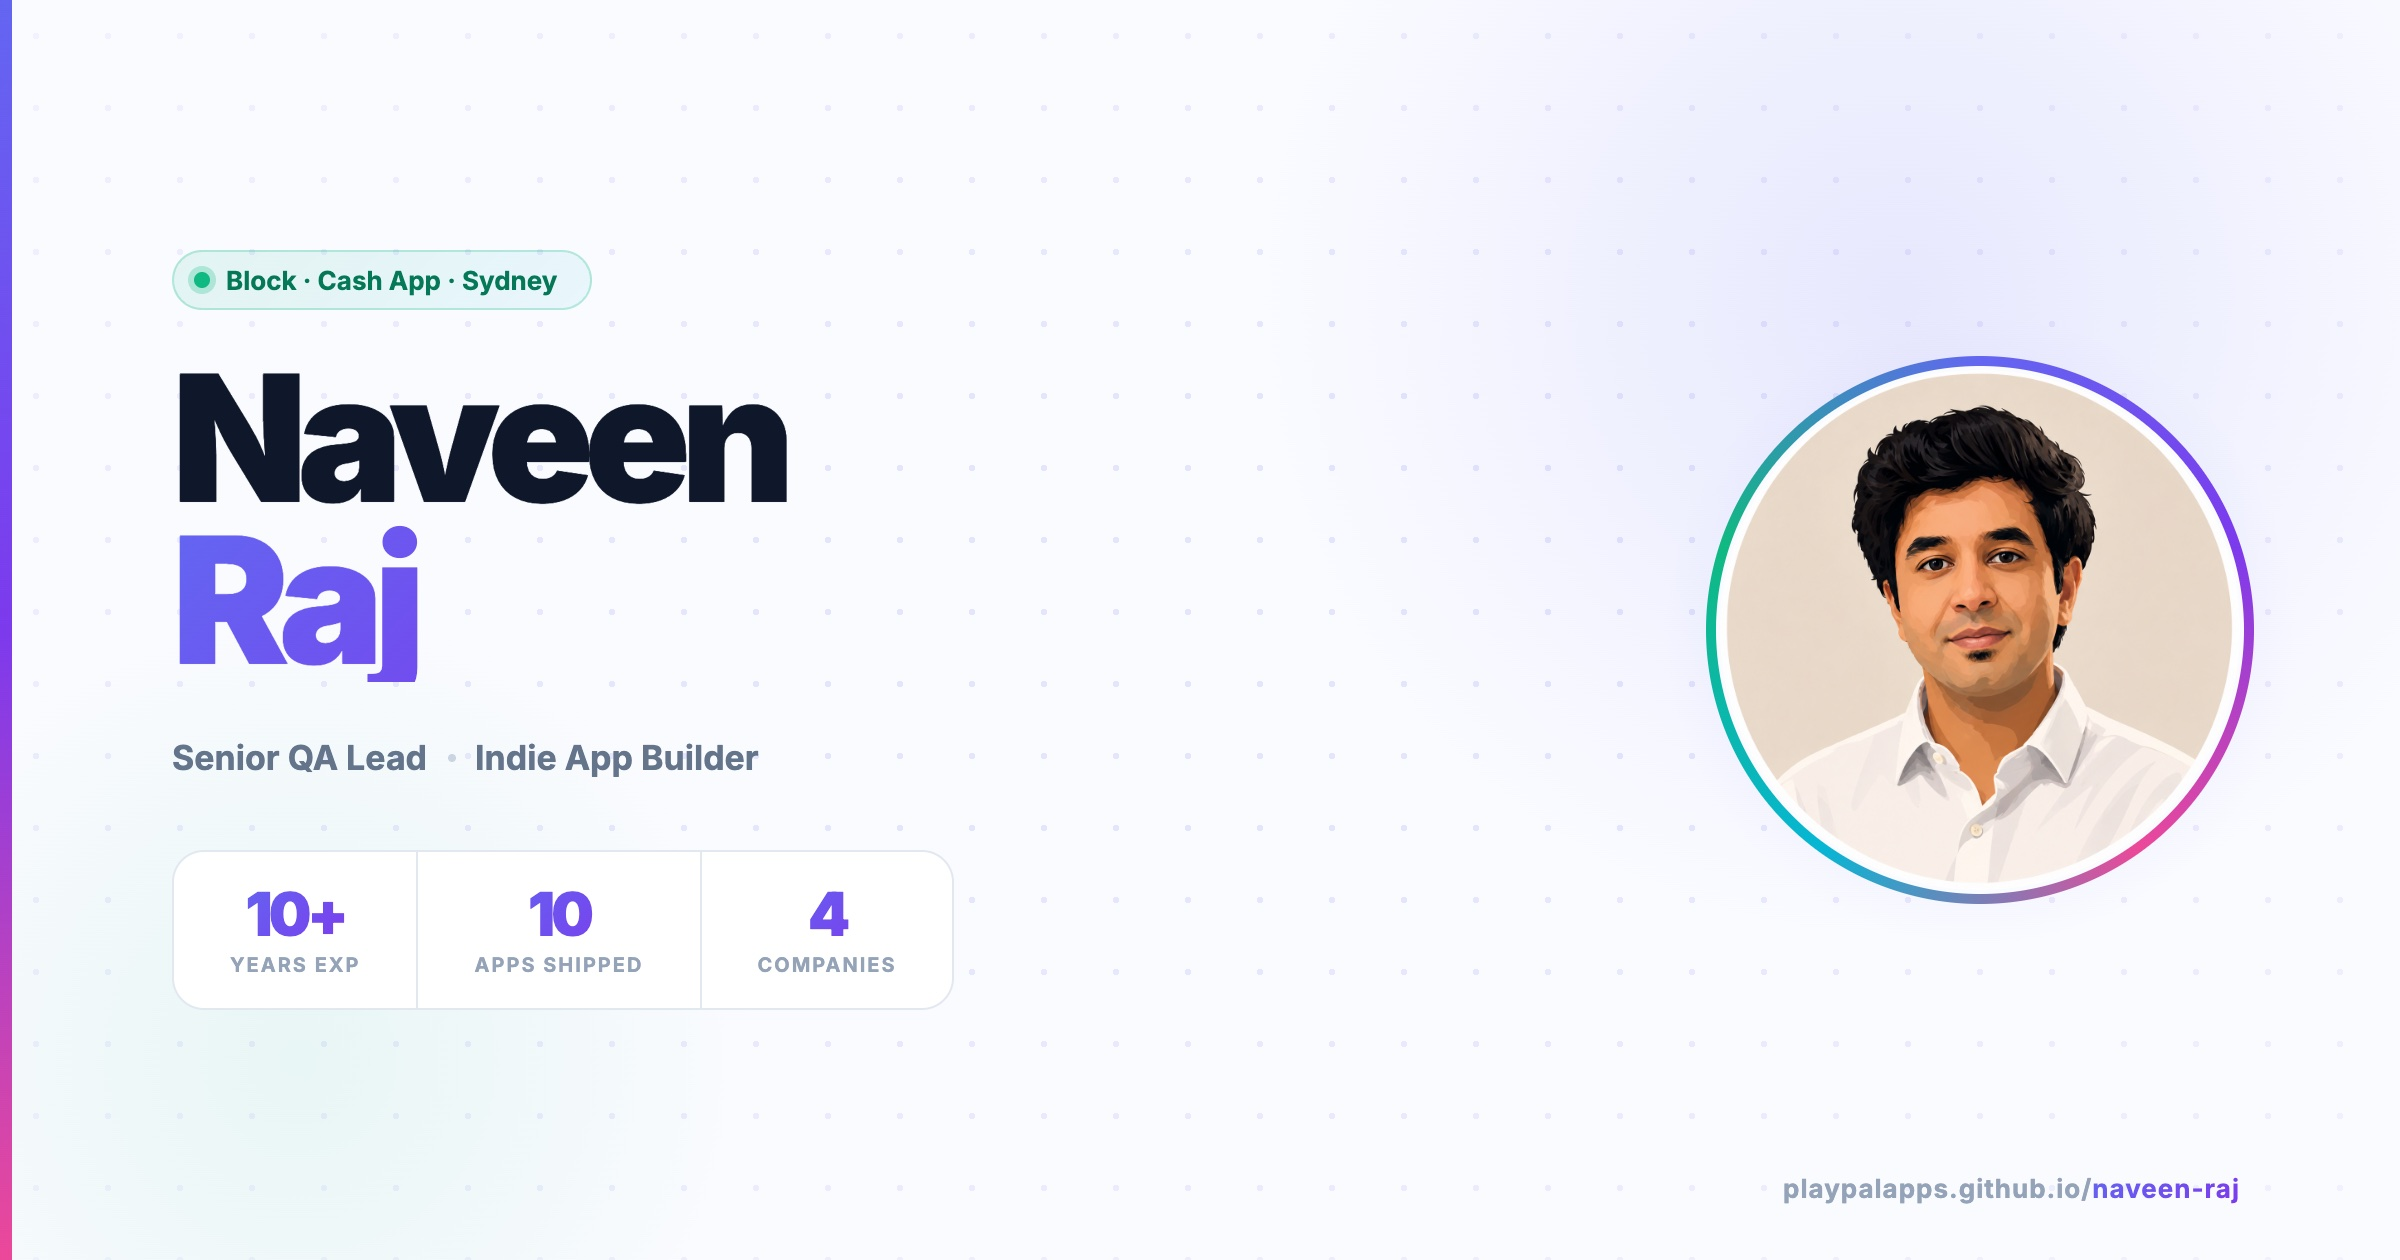
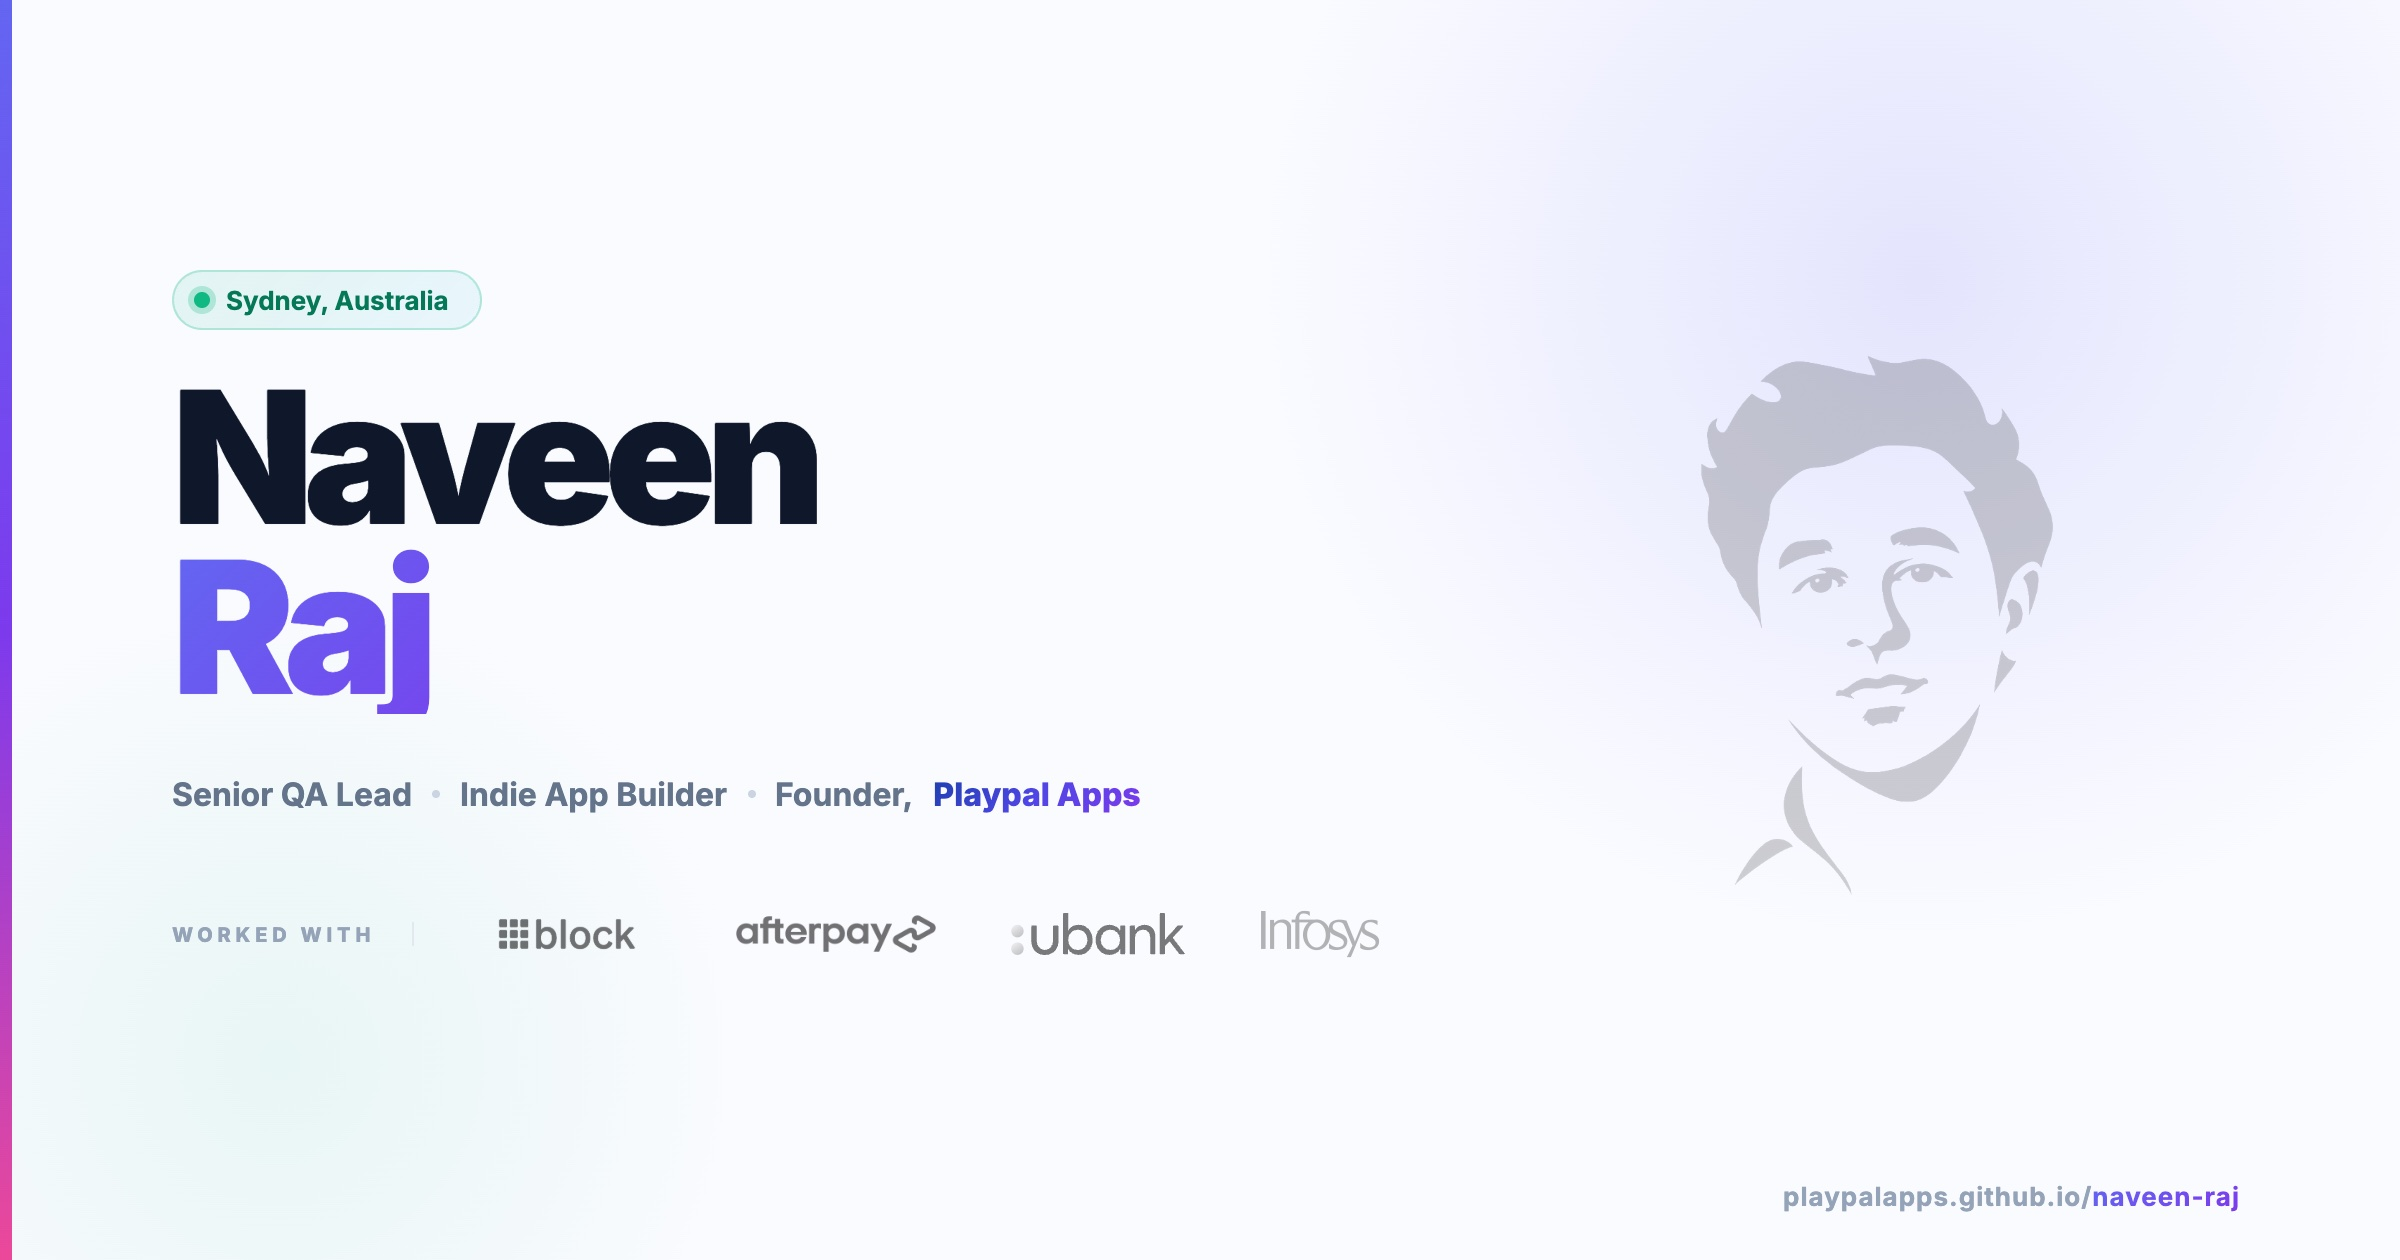
Regenerate Naveen Raj OG image to match current page design
The old OG card was stale — still showed the photo + 4 stats + 'Block ·
Cash App · Sydney' badge that we replaced weeks ago. Updated to mirror
the live page:

- Stylized portrait watermark on the right (replaces circular photo)
- 'Sydney, Australia' badge (replaces 'Block · Cash App · Sydney')
- Role line includes 'Founder, Playpal Apps' in the brand gradient
- 'Worked with' logo strip (Block · Afterpay · UBank · Infosys) in
  grayscale at the bottom — replaces the stats grid
- Same dimensions (1200×630), JPEG at 85% quality (~167KB)
- og-image.jpg URL now has ?v=2 cache-buster so social platforms
  re-fetch instead of serving old cached preview

diff --git a/naveen-raj/og-card.html b/naveen-raj/og-card.html
@@ -12,24 +12,16 @@
       position: relative;
     }
 
-    /* Dot grid */
-    .dots {
-      position: absolute; inset: 0;
-      background-image: radial-gradient(rgba(99,102,241,0.15) 1.5px, transparent 1.5px);
-      background-size: 36px 36px;
-      mask-image: radial-gradient(ellipse 100% 100% at 50% 50%, black 20%, transparent 100%);
-    }
-
-    /* Gradient orbs */
+    /* Soft gradient orbs */
     .orb1 {
-      position: absolute; width: 700px; height: 700px; border-radius: 50%;
-      background: radial-gradient(circle, rgba(99,102,241,0.13) 0%, transparent 65%);
-      top: -200px; right: -100px;
+      position: absolute; width: 720px; height: 720px; border-radius: 50%;
+      background: radial-gradient(circle, rgba(99,102,241,0.15) 0%, transparent 65%);
+      top: -220px; right: -120px;
     }
     .orb2 {
-      position: absolute; width: 500px; height: 500px; border-radius: 50%;
+      position: absolute; width: 520px; height: 520px; border-radius: 50%;
       background: radial-gradient(circle, rgba(16,185,129,0.08) 0%, transparent 65%);
-      bottom: -150px; left: -100px;
+      bottom: -160px; left: -120px;
     }
 
     /* Left accent bar */
@@ -42,11 +34,11 @@
     .layout {
       position: relative; z-index: 2;
       display: flex; align-items: center; justify-content: space-between;
-      height: 100%; padding: 60px 80px 60px 86px;
+      height: 100%; padding: 56px 80px 56px 86px;
     }
 
     /* Left side */
-    .left { flex: 1; padding-right: 60px; }
+    .left { flex: 1; padding-right: 60px; max-width: 720px; }
 
     .badge {
       display: inline-flex; align-items: center; gap: 8px;
@@ -54,7 +46,7 @@
       background: linear-gradient(135deg, rgba(16,185,129,0.1), rgba(6,182,212,0.07));
       border: 1px solid rgba(16,185,129,0.25); border-radius: 100px;
       font-size: 13px; font-weight: 700; color: #047857;
-      margin-bottom: 24px;
+      margin-bottom: 22px;
     }
     .badge-dot {
       width: 8px; height: 8px; border-radius: 50%;
@@ -62,9 +54,9 @@
     }
 
     .name {
-      font-size: 88px; font-weight: 900; line-height: 0.92;
+      font-size: 92px; font-weight: 900; line-height: 0.92;
       letter-spacing: -5px; color: #0F172A;
-      margin-bottom: 18px; padding-bottom: 10px;
+      margin-bottom: 18px; padding-bottom: 12px;
     }
     .name .grad {
       display: block;
@@ -74,51 +66,45 @@
     }
 
     .role {
-      font-size: 17px; font-weight: 600; color: #64748B;
+      font-size: 16px; font-weight: 600; color: #64748B;
       display: flex; align-items: center; gap: 10px;
-      margin-bottom: 36px;
+      margin-bottom: 32px; flex-wrap: wrap;
     }
-    .role-sep { width: 4px; height: 4px; border-radius: 50%; background: #CBD5E1; }
-
-    /* Stats row */
-    .stats { display: flex; gap: 0; border-radius: 16px; overflow: hidden; border: 1px solid #E2E8F0; background: #E2E8F0; width: fit-content; }
-    .stat {
-      background: white; padding: 16px 28px; text-align: center;
-      border-right: 1px solid #E2E8F0;
-    }
-    .stat:last-child { border-right: none; }
-    .stat-num {
-      font-size: 30px; font-weight: 900; letter-spacing: -2px; line-height: 1;
-      background: linear-gradient(135deg, #6366F1, #7C3AED);
+    .role-sep { width: 4px; height: 4px; border-radius: 50%; background: #CBD5E1; flex-shrink: 0; }
+    .role b {
+      background: linear-gradient(135deg, #1E40AF, #4F46E5, #7C3AED);
       -webkit-background-clip: text; -webkit-text-fill-color: transparent;
-      background-clip: text;
+      background-clip: text; font-weight: 800;
     }
-    .stat-label { font-size: 10px; color: #94A3B8; font-weight: 700; margin-top: 4px; text-transform: uppercase; letter-spacing: 1px; }
 
-    /* Right — photo */
-    .right { flex-shrink: 0; position: relative; }
-    .photo-wrap { position: relative; width: 260px; height: 260px; }
-    .photo-ring {
-      position: absolute; inset: -7px; border-radius: 50%;
-      background: conic-gradient(from 0deg, #6366F1, #7C3AED, #EC4899, #06B6D4, #10B981, #6366F1);
+    /* Worked-with logos strip */
+    .worked-with {
+      display: flex; align-items: center; gap: 28px;
     }
-    .photo-gap {
-      position: absolute; inset: -2px; border-radius: 50%; background: #FAFBFF;
-      z-index: 1;
+    .ww-label {
+      font-size: 10px; font-weight: 800; letter-spacing: 2.4px;
+      text-transform: uppercase; color: #94A3B8;
+      padding-right: 18px; border-right: 1px solid #E2E8F0;
     }
-    .photo-glow {
-      position: absolute; inset: -30px; border-radius: 50%; z-index: 0;
-      background: radial-gradient(circle, rgba(99,102,241,0.18) 0%, transparent 70%);
+    .logo-row {
+      display: flex; align-items: center; gap: 36px;
     }
-    .photo-wrap img {
-      width: 260px; height: 260px; border-radius: 50%;
-      object-fit: cover; object-position: center top;
-      position: relative; z-index: 2; display: block;
+    .logo-row img {
+      object-fit: contain; filter: grayscale(1); opacity: 0.55;
     }
+    .logo-row img:nth-child(1) { height: 44px; }   /* block */
+    .logo-row img:nth-child(2) { height: 56px; }   /* afterpay */
+    .logo-row img:nth-child(3) { height: 24px; }   /* ubank */
+    .logo-row img:nth-child(4) { height: 24px; }   /* infosys */
+
+    /* Right — stylized portrait */
+    .right { flex-shrink: 0; position: relative; width: 360px; height: 100%; display: flex; align-items: center; justify-content: center; }
+    .portrait { width: 360px; height: 360px; }
+    .portrait img { width: 100%; height: 100%; object-fit: contain; opacity: 0.18; }
 
     /* Bottom URL stamp */
     .url-stamp {
-      position: absolute; bottom: 28px; right: 80px;
+      position: absolute; bottom: 24px; right: 80px;
       font-size: 13px; font-weight: 700; color: #94A3B8;
       letter-spacing: 0.5px; z-index: 3;
     }
@@ -130,29 +116,27 @@
   </style>
 </head>
 <body>
-  <div class="dots"></div>
   <div class="orb1"></div>
   <div class="orb2"></div>
   <div class="accent-bar"></div>
 
   <div class="layout">
     <div class="left">
-      <div class="badge"><span class="badge-dot"></span> Block · Cash App · Sydney</div>
+      <div class="badge"><span class="badge-dot"></span> Sydney, Australia</div>
       <h1 class="name">Naveen<span class="grad">Raj</span></h1>
-      <p class="role">Senior QA Lead <span class="role-sep"></span> Indie App Builder</p>
-      <div class="stats">
-        <div class="stat"><div class="stat-num">10+</div><div class="stat-label">Years Exp</div></div>
-        <div class="stat"><div class="stat-num">10</div><div class="stat-label">Apps Shipped</div></div>
-        <div class="stat"><div class="stat-num">4</div><div class="stat-label">Companies</div></div>
+      <p class="role">Senior QA Lead <span class="role-sep"></span> Indie App Builder <span class="role-sep"></span> Founder, <b>Playpal Apps</b></p>
+      <div class="worked-with">
+        <span class="ww-label">Worked with</span>
+        <div class="logo-row">
+          <img src="assets/block.png" alt="Block">
+          <img src="assets/afterpay.png" alt="Afterpay">
+          <img src="assets/ubank.svg" alt="UBank">
+          <img src="assets/infosys.png" alt="Infosys">
+        </div>
       </div>
     </div>
     <div class="right">
-      <div class="photo-wrap">
-        <div class="photo-glow"></div>
-        <div class="photo-ring"></div>
-        <div class="photo-gap"></div>
-        <img src="naveen.png" alt="Naveen Raj">
-      </div>
+      <div class="portrait"><img src="assets/naveen-portrait.png" alt=""></div>
     </div>
   </div>
   <div class="url-stamp">playpalapps.github.io/<span>naveen-raj</span></div>

diff --git a/naveen-raj/index.html b/naveen-raj/index.html
@@ -11,7 +11,7 @@
   <meta property="og:url"         content="https://playpalapps.github.io/naveen-raj/">
   <meta property="og:title"       content="Naveen Raj — QA Lead & App Builder">
   <meta property="og:description" content="10+ years in fintech quality engineering. 10 apps shipped to iOS & Android. Currently at Block (Cash App).">
-  <meta property="og:image"        content="https://playpalapps.github.io/naveen-raj/og-image.jpg">
+  <meta property="og:image"        content="https://playpalapps.github.io/naveen-raj/og-image.jpg?v=2">
   <meta property="og:image:type"   content="image/jpeg">
   <meta property="og:image:width"  content="1200">
   <meta property="og:image:height" content="630">
@@ -20,7 +20,7 @@
   <meta name="twitter:card"        content="summary_large_image">
   <meta name="twitter:title"       content="Naveen Raj — QA Lead & App Builder">
   <meta name="twitter:description" content="10+ years in fintech quality engineering. 10 apps shipped to iOS & Android. Currently at Block (Cash App).">
-  <meta name="twitter:image"       content="https://playpalapps.github.io/naveen-raj/og-image.jpg">
+  <meta name="twitter:image"       content="https://playpalapps.github.io/naveen-raj/og-image.jpg?v=2">
   <link rel="preconnect" href="https://fonts.googleapis.com">
   <link href="https://fonts.googleapis.com/css2?family=Inter:wght@300;400;500;600;700;800;900&display=swap" rel="stylesheet">
   <style>
